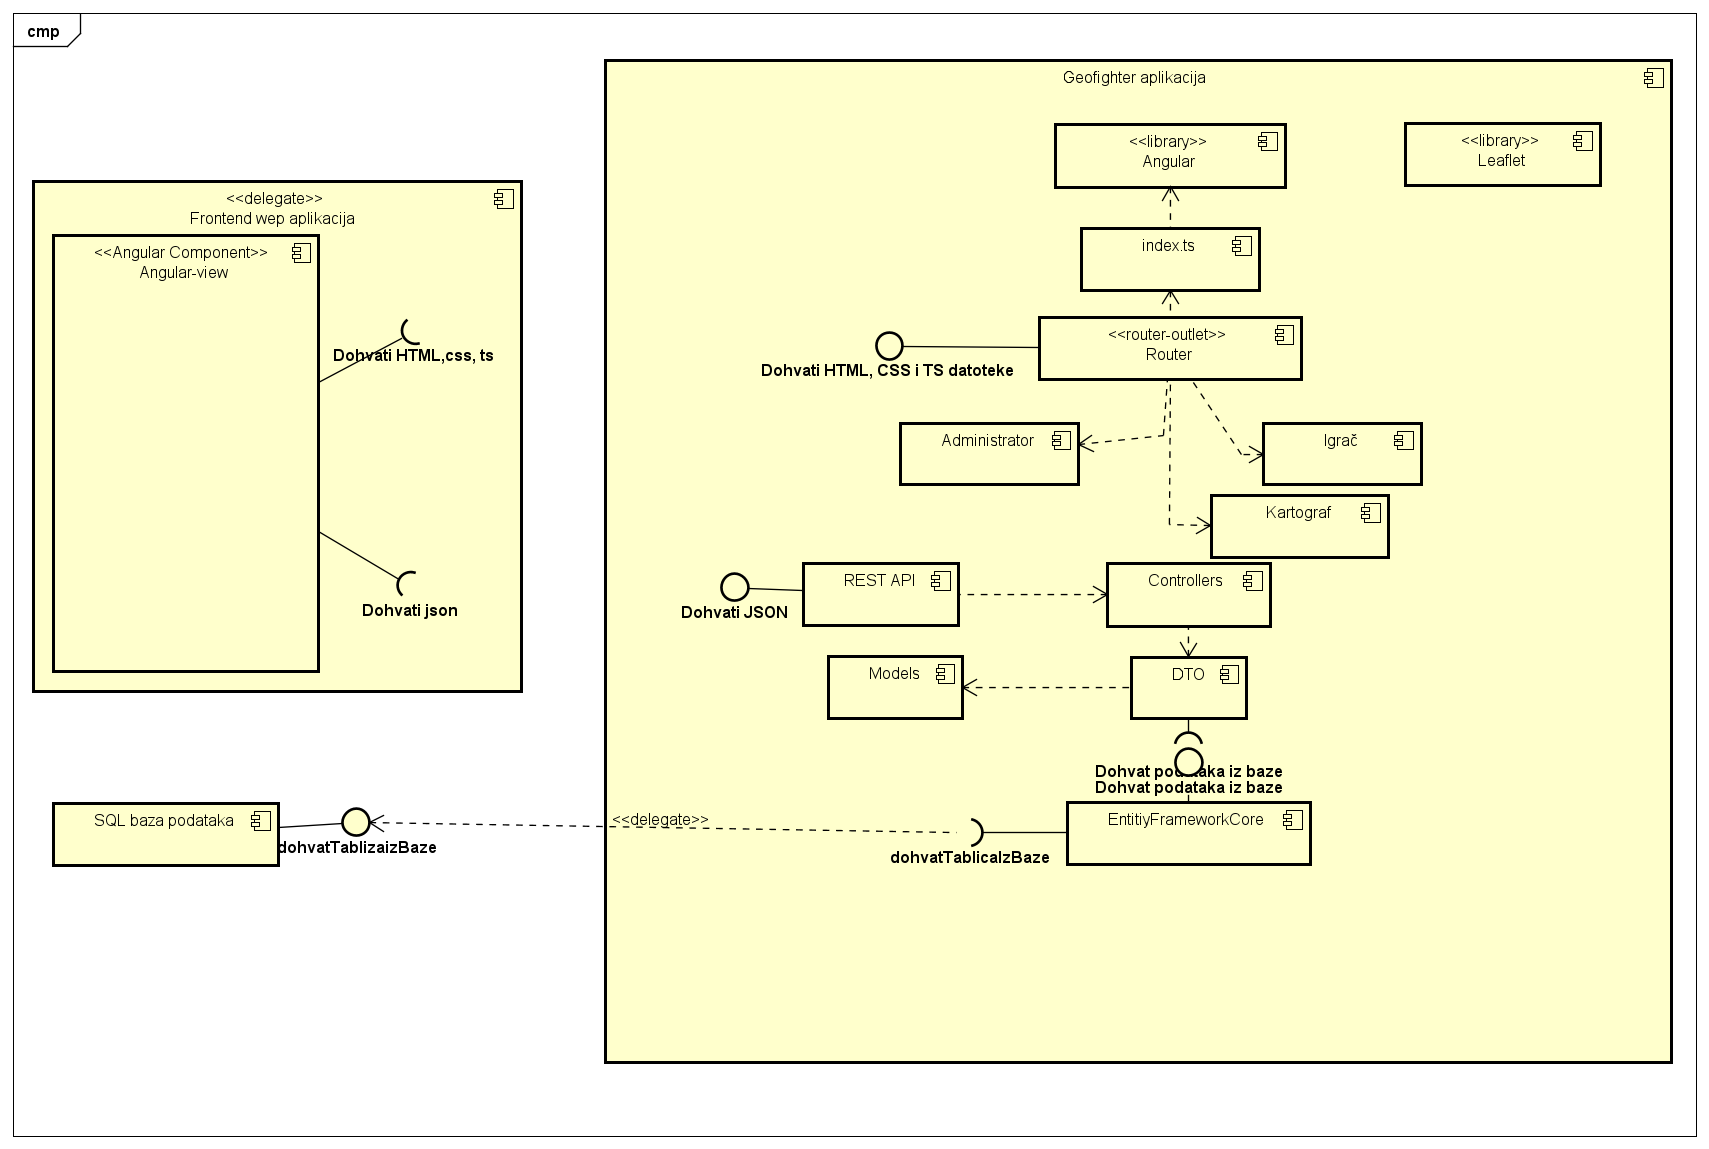
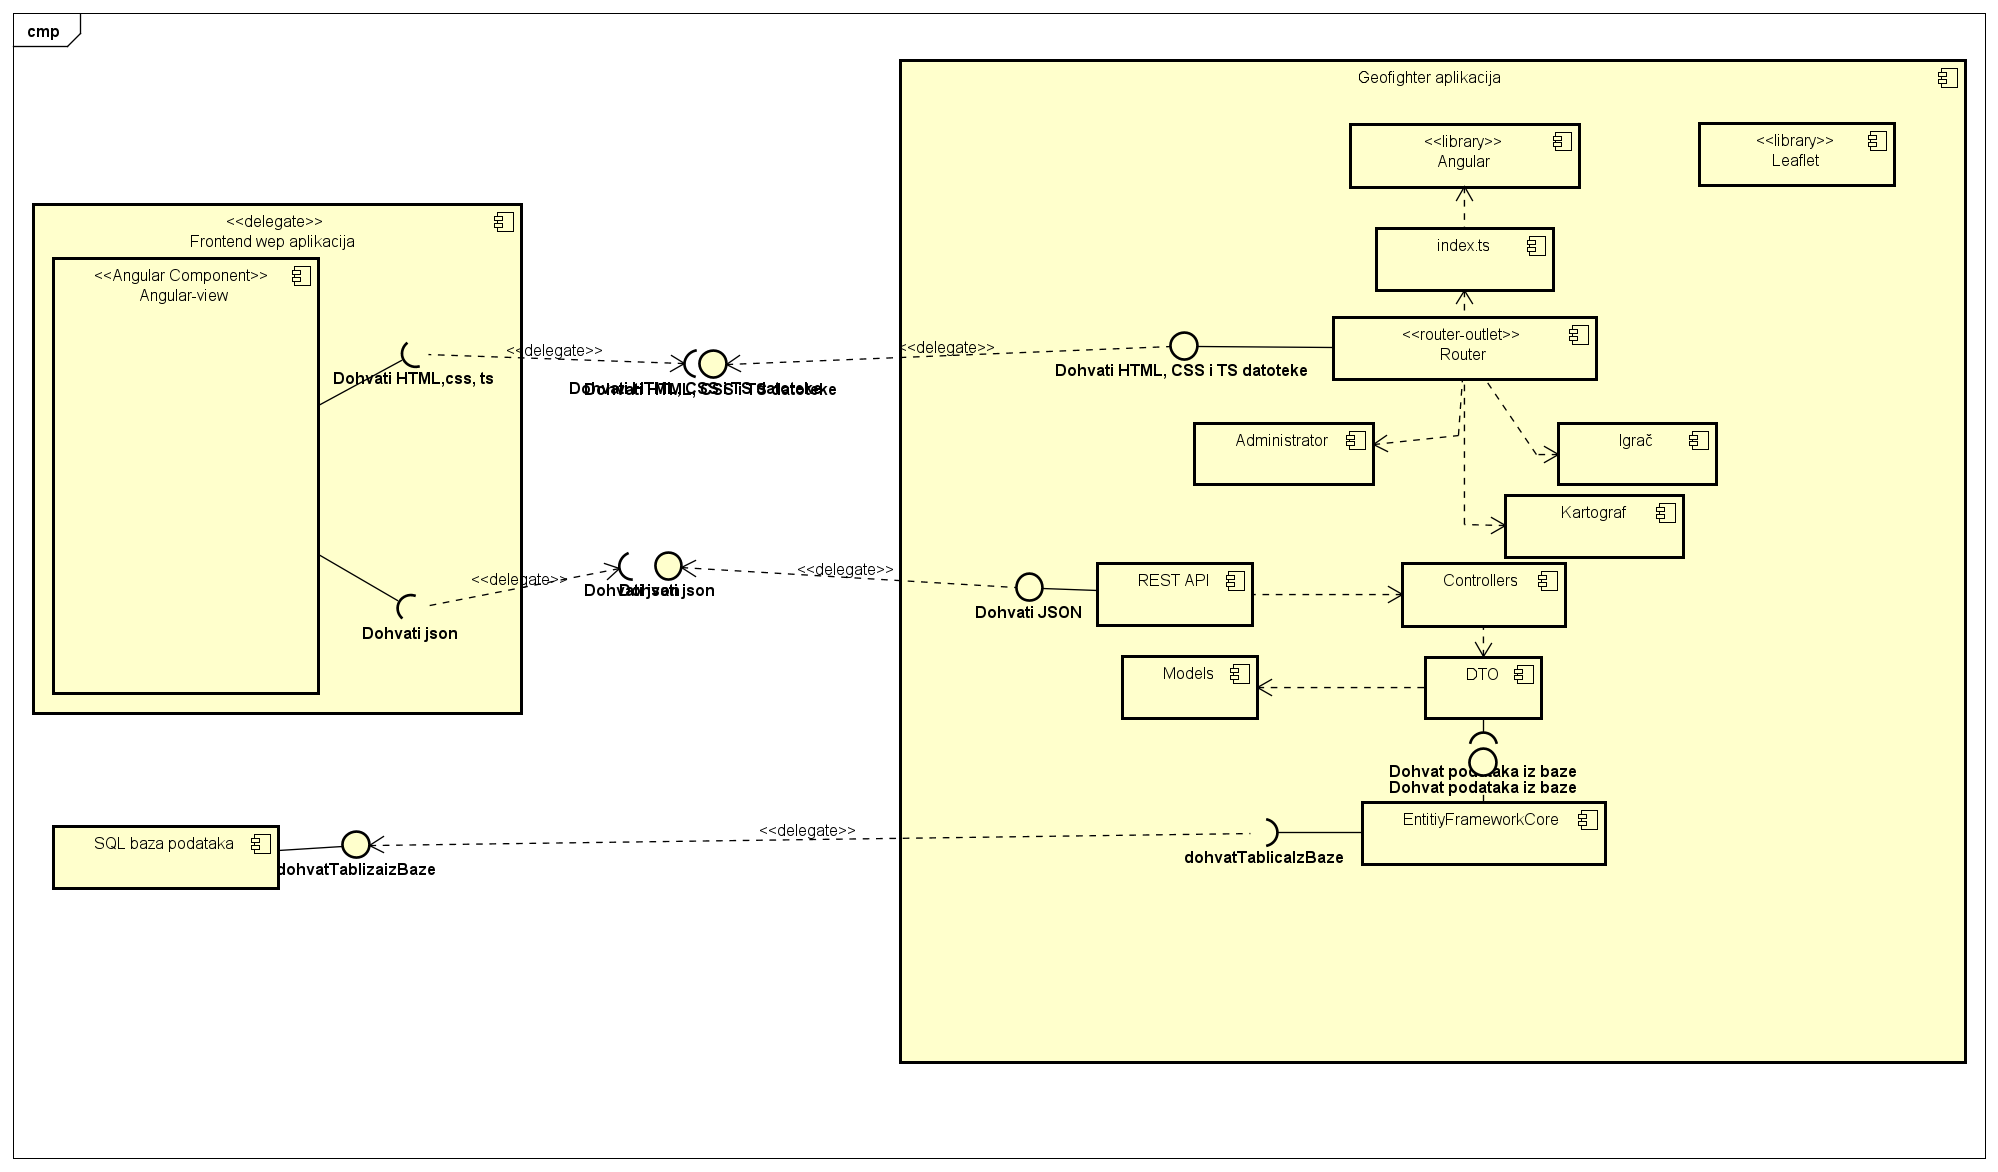
ispravljeni tipfeleri i opisi dijagrama

Changed region(s): [[0.0, 0.0, 1.0, 1.0], [0.0, 0.7006, 0.2481, 0.7615], [0.0, 0.0, 0.062, 0.0609]]

diff --git a/dokumentacija/Arhitektura.tex b/dokumentacija/Arhitektura.tex
@@ -391,7 +391,7 @@
 		
 		\section{Dijagram aktivnosti}
 			
-			\textbf{\textnormal{UML dijagram aktivnosti prikazuje detaljan tijek obrazaca uporabe, njegovu proceduralnu logiku te sudionike pojedinog obrasca uporabe. Na slici ispod prikazan je dijagram aktivnosti za uređivanje karata od strane administratora. Administrator se uspješno prijavi u aplikaciju. Nakon prijave administrator odabire drop down meni pod nazivom "admin". Drop down meni se otvara i nudi razne opcije. Odabiremo "Manage cards". Salje se zahtjev bazi podataka za dohvat svih raspoloživih karata te se dohvaćene karte prikazuju na aplikaciji u obliku liste svih karata. Kod određenog elementa liste, odnosno kod željene karte odabiremo gumb "Edit". Aplikacija dohvaća detalje te karte i iste prikazuje na ekranu. Detalje je moguće uređivati. Nakon što smo uredili željene podatke odabiremo gumb "Accept". Aplikacija šalje upit za izmjenu podataka karte te se upit izvršava, uređena karta se sprema u bazu podataka.}}\\
+			\textbf{\textnormal{UML dijagram aktivnosti prikazuje detaljan tijek obrazaca uporabe, njegovu proceduralnu logiku te sudionike pojedinog obrasca uporabe. Na slici ispod prikazan je dijagram aktivnosti za uređivanje karata od strane administratora. Administrator se uspješno prijavi u aplikaciju. Nakon prijave administrator odabire u headeru web aplikacije opciju "admin". Nude se razne opcije administratora. Odabiremo "Manage cards". Šalje se zahtjev bazi podataka za dohvat svih raspoloživih karata te se dohvaćene karte prikazuju na aplikaciji u obliku liste svih karata. Kod određenog elementa liste, odnosno kod željene karte odabiremo gumb "Edit". Aplikacija dohvaća detalje te karte i iste prikazuje na ekranu. Detalje je moguće uređivati. Nakon što smo uredili željene podatke odabiremo gumb "Accept". Aplikacija šalje upit za izmjenu podataka karte te se upit izvršava, uređena karta se sprema u bazu podataka.}}\\
 			\eject
 			\begin{figure}[H]
 				\centering
@@ -403,7 +403,7 @@
 			\eject
 		\section{Dijagram komponenti}
 		
-			\textbf{\textnormal{Dijagram komponenti prikazuje zavisnost komponenti i opisuje interne strukture i odnose prema okolini. Graf komponenti povezan je vezama ovisnosti kako bi se omogućila lakša analiza reakcije ostalih komponenti na promjene u jednoj komponenti. Do podataka iz SQL Postgres baze podataka dolazi se korištenjem sučelja koja nasljeđuju JPA Repository pomoću SQL upita. Podaci koji dolaze iz baze podataka stavljaju se u DTO objekte. API šalje podatke iz backend-a aplikacije u obliku JSON-a frontend aplikaciji. Frontend aplikacija se sastoji od Typescript datoteka koje su raspoređene u logičke cjeline nazvane po tipovima aktora koji im pristupaju. Typescript datoteke ovise o Angular biblioteci iz koje dohvaćaju gotove komponente kao što su gumbi, forme i slično. Router je komponenta koja odreduje koje datoteke se prikazuju korisniku. Sustavu se pristupa preko sucelja preko kojega mu se salju HTML i Typescript datoteke iz frontend aplikacije.}}\\
+			\textbf{\textnormal{Dijagram komponenti prikazuje zavisnost komponenti i opisuje interne strukture i odnose prema okolini. Graf komponenti povezan je vezama ovisnosti kako bi se omogućila lakša analiza reakcije ostalih komponenti na promjene u jednoj komponenti. Do podataka iz baze podataka dolazi se korištenjem JPA APIja. Podaci koji dolaze iz baze podataka stavljaju se u DTO objekte. API šalje podatke iz backend-a aplikacije u obliku JSON-a frontend aplikaciji. Frontend aplikacija se sastoji od Typescript datoteka koje su raspoređene u logičke cjeline nazvane po tipovima aktora koji im pristupaju. Typescript datoteke ovise o Angular biblioteci iz koje dohvaćaju gotove komponente kao što su gumbi, forme i slično. Router je komponenta koja određuje koje datoteke se prikazuju korisniku. Sustavu se pristupa preko sučelja preko kojega mu se salju HTML i Typescript datoteke iz frontend aplikacije.}}\\
 			\eject
 			
 			\begin{figure}[H]
